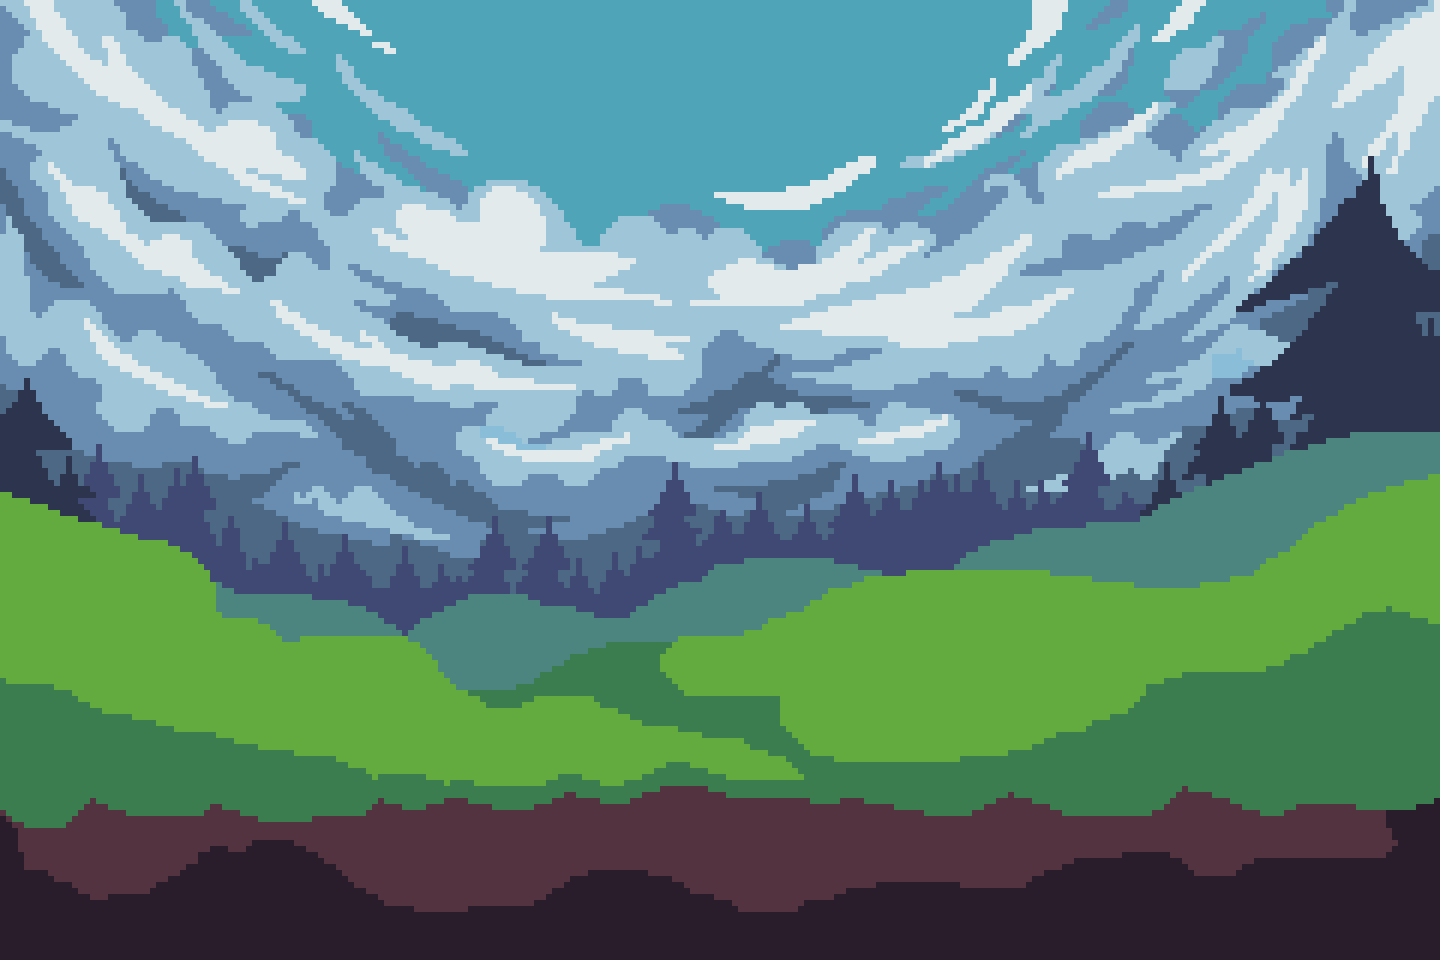
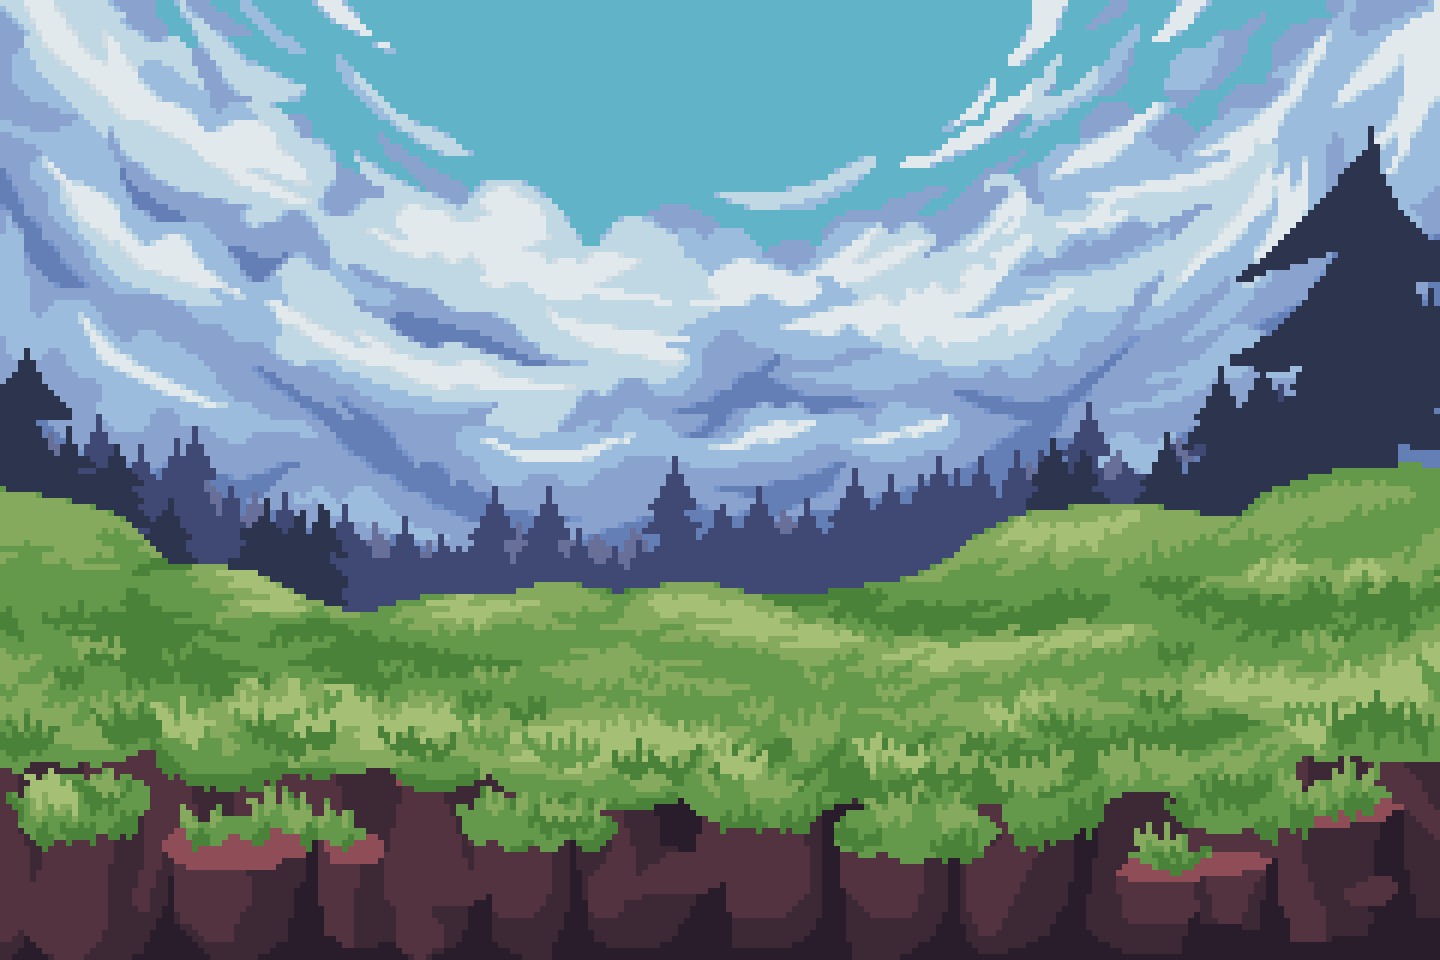
Updated background, added button assets

diff --git a/css/master.css b/css/master.css
@@ -5,6 +5,11 @@
   color: white;
   text-align: center;
   width: 100px;
+  filter: drop-shadow(1px 1px 1px #000000);
+  background-color: black;
+  padding: 4px;
+  border-radius: 16px;
+  transition: background-color 500ms, width 500ms, color 500ms;
 }
 
 .top-bar.grid-container {
@@ -12,10 +17,10 @@
    left: 0;
    top: 0;
    width: 100%;
-   height: 40px;
+   height: 50px;
    background-color: none;
    display: grid;
-   grid-template-columns: 100px auto repeat(3, 100px);
+   grid-template-columns: auto repeat(4, 140px);
    align-items: center;
    overflow: visible;
    z-index: 10;
@@ -27,21 +32,31 @@
    width: 100%;
    height: 100vh;
    background-color: none;
-   grid-template-columns: 65% 25% 10%;
+   grid-template-columns: 10% 25% 65%;
 }
 
 .profile.grid_container {
    width: 100%;
    height: 100%;
    background-color: none;
-   grid-template-rows: 10% 40% 20% 20% 10%;
+   grid-template-rows: 10% 50% 15% 15% 10%;
    grid-template-columns: 100%;
    align-items: center;
 }
 
 .top-bar.grid-container:hover {
   background-color: #000000BB;
-  height: 50px;
+  height: 60px;
+}
+
+.top-bar.grid-container:hover .top-bar.text {
+  background-color: #99A;
+  width: 110px;
+  color: black;
+}
+
+.top-bar.text:hover {
+  transform: scale(1.05);
 }
 
 .grid_container {
@@ -56,6 +71,10 @@
 
 .profile_image {
   width: 80%;
+}
+
+.button.main:hover {
+  transform: scale(1.05);
 }
 
 .static {

diff --git a/index.html b/index.html
@@ -6,11 +6,11 @@
     <link rel="stylesheet" href="css/master.css">
     <title>Cocoon's Website!</title>
     <div class="top-bar grid-container">
-      <div class="top-bar text home">HOME</div>
       <div> </div>
-      <div class="top-bar text about">PROJECTS</div>
+      <div class="top-bar text home">HOME</div>
+      <div class="top-bar text projects">PROJECTS</div>
       <div class="top-bar text about">ABOUT</div>
-      <div class="top-bar text about">CONTACT</div>
+      <div class="top-bar text contact">CONTACT</div>
     </div>
   </head>
 
@@ -26,8 +26,9 @@
             <div class="profile grid_container">
               <div class="empty"></div>
               <img src="assets/main_pfp.png" class="profile_image">
-              <img src="assets/button.png" class="profile_image">
-              <img src="assets/button.png" class="profile_image">
+              <img src="assets/buttons/main_about.png" class="button main about">
+              <img src="assets/buttons/main_contact.png" class="button main contactz">
+
               <div class="empty"></div>
             </div>
             <div class="empty"></div>
